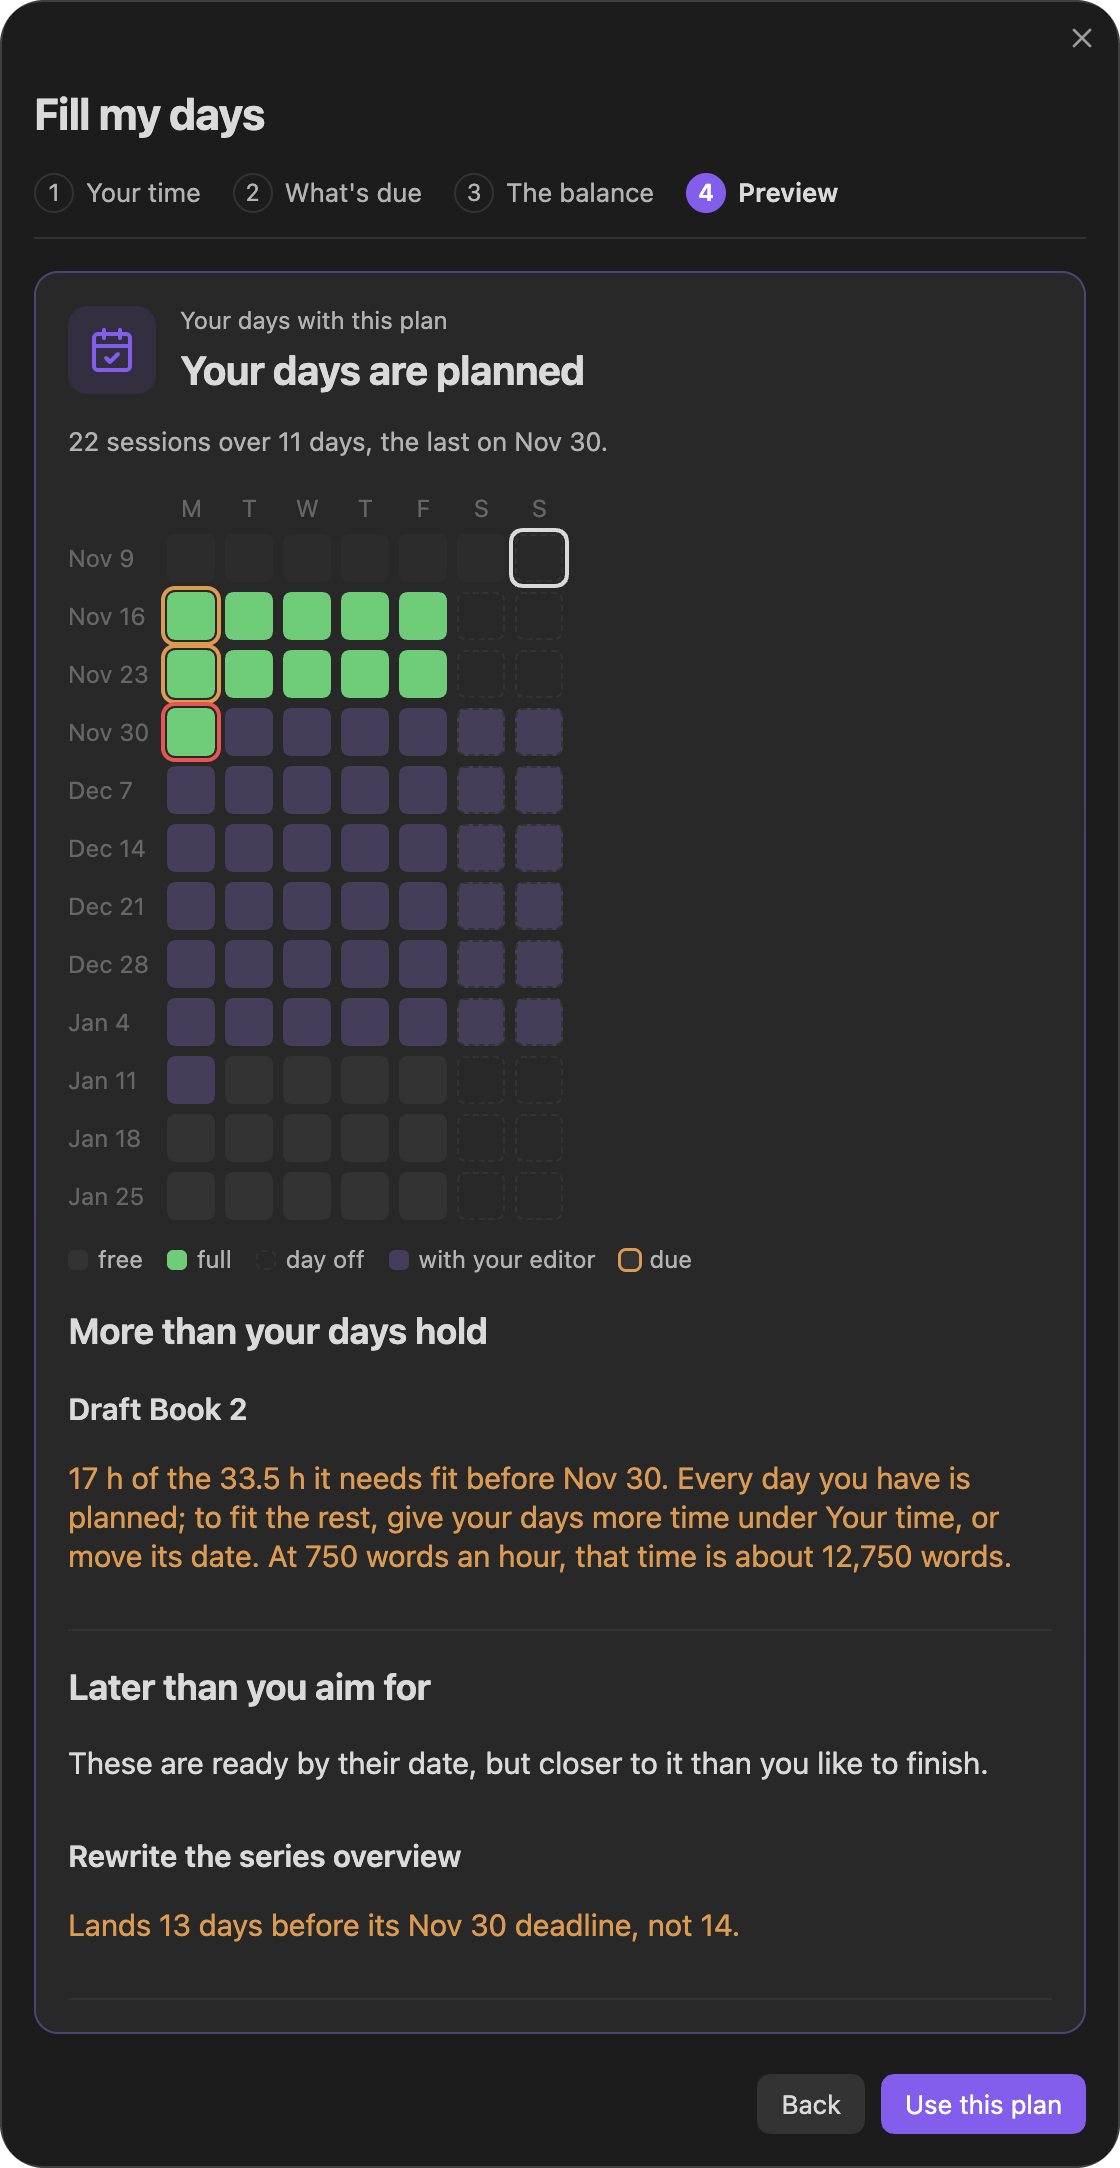
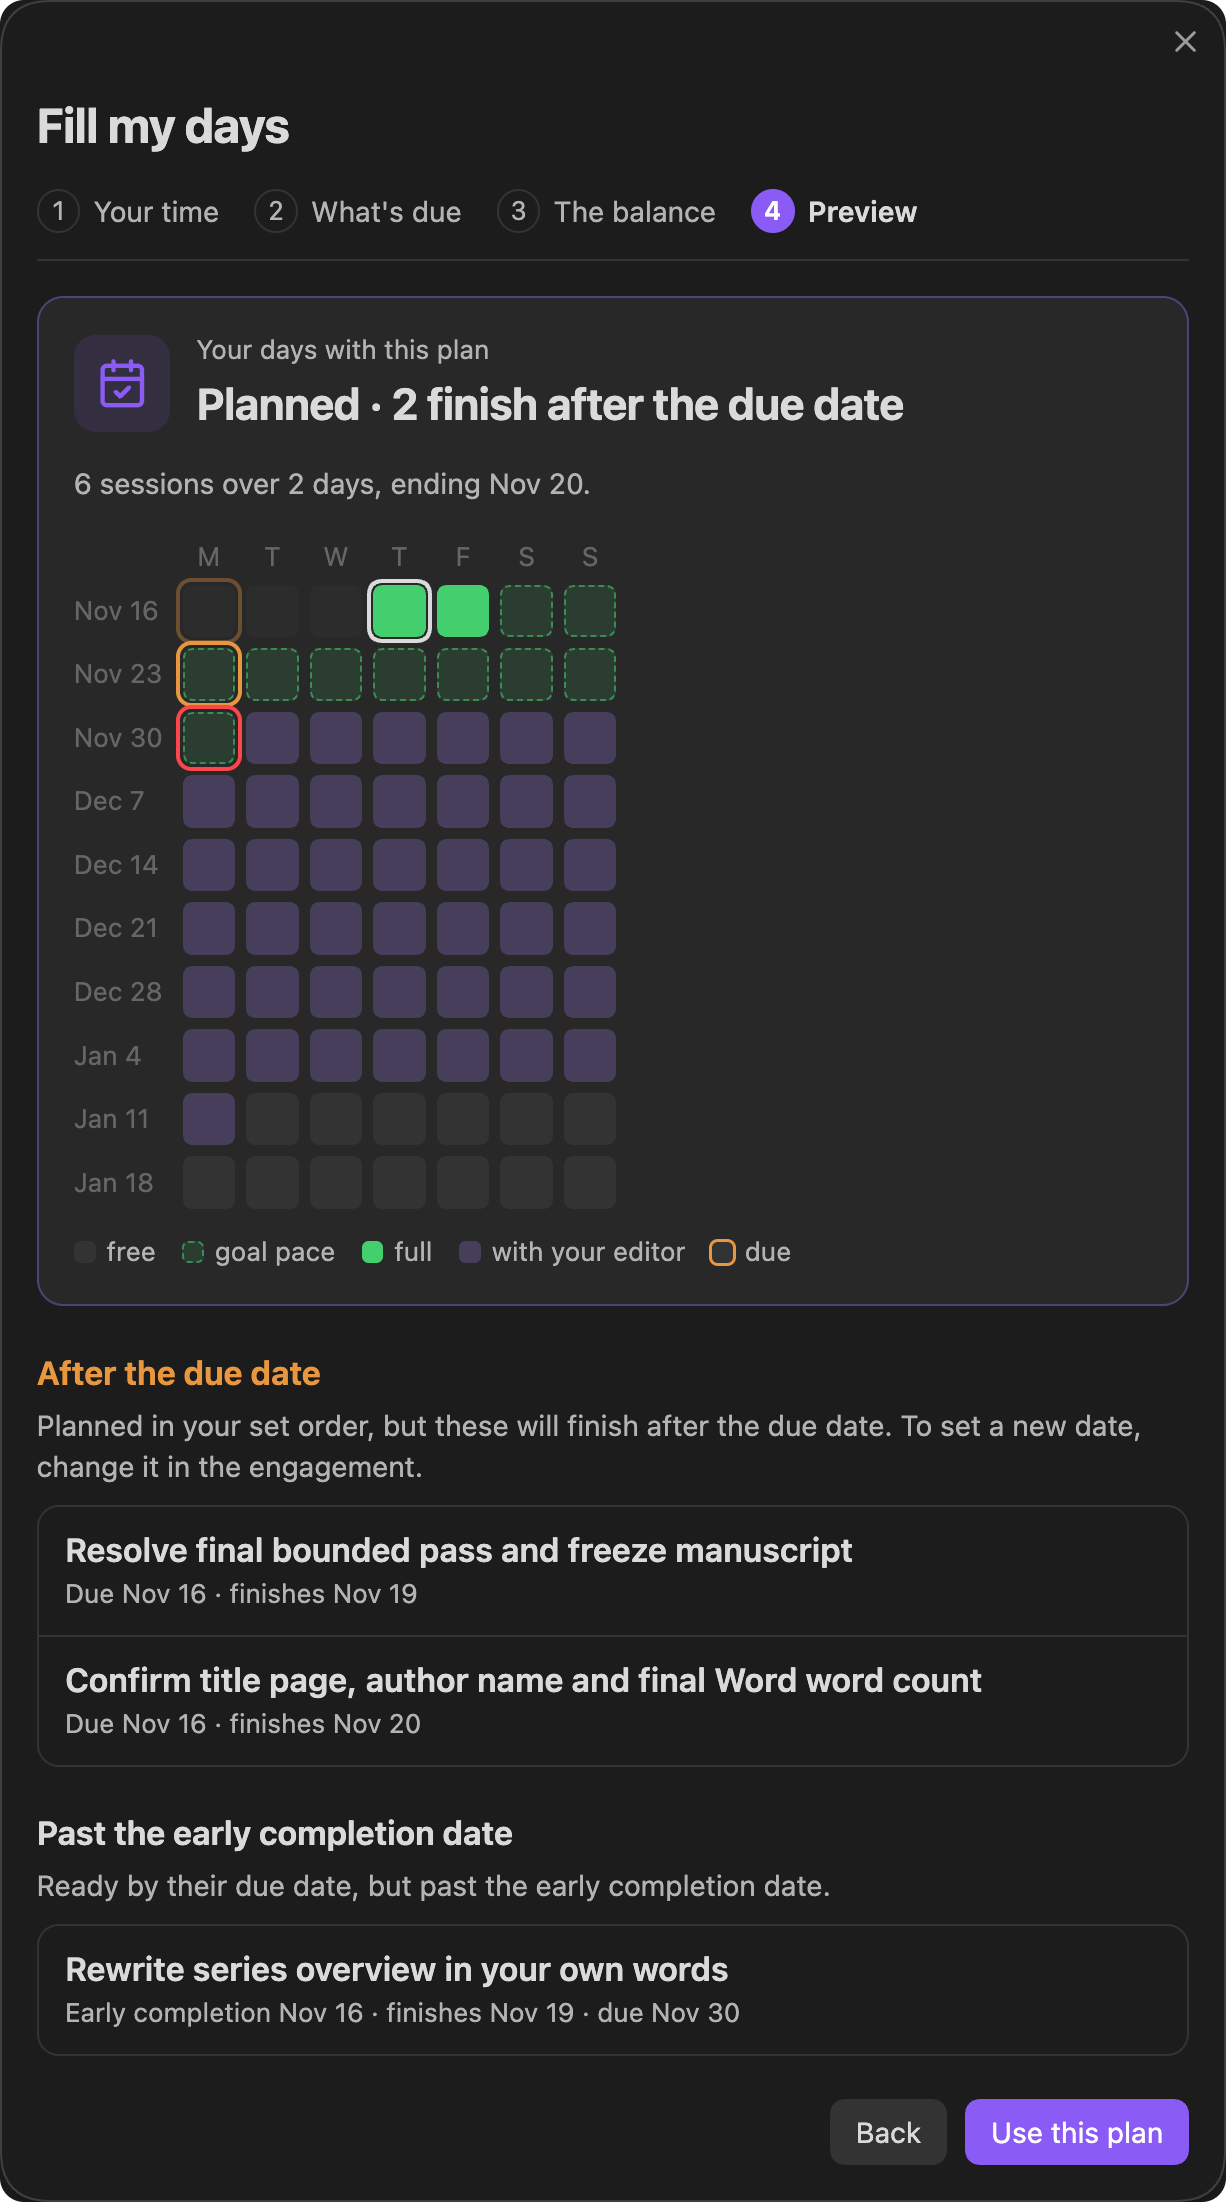
Retake the Fill my days picture with today's preview wording
The wiki's Fill my days image still showed "More than your days hold" and
"Later than you aim for", which today's rewrite replaced with After the
due date and Past the early completion date, alongside planning tasks in
a set order. The page's text was already updated; its picture was not.

It is replaced by the capture made while that wording was written, in a
separate Obsidian on the made-up vault built for today's fixes, rounded
like every wiki image. The alt text says what it now shows, and the
screenshot record notes where it came from. The 3.5.1 release notes use
it.

diff --git a/wiki/Author-Planner.md b/wiki/Author-Planner.md
@@ -48,7 +48,7 @@ The four steps above the plan change an answer in it. Click one to open it; noth
 3. **The balance.** Shown when you have both goals and work due to an editor. What is due to your editor comes first unless you choose your writing goals, or **Some of each, every day**, which keeps a set number of minutes for your goals on each day they need them. Your choice is remembered, and **Ahead of you** lists the work that comes first at the top.
 4. **Preview.** Your days as squares with this plan, with the number of sessions and the last day. Editor work aims to finish by its early completion date, your cushion of days before the due date. Work that finishes later is listed under **Past the early completion date**.
 
-<p align="center"><img src="images/fill-my-days.png" alt="Fill my days showing its plan: Your days are planned, 22 sessions over 11 days, with the days drawn as squares, full on the days now planned. Below, More than your days hold says how much of the goal Draft Book 2 fits before its date, and Later than you aim for names one task. Back and Use this plan are at the bottom" width="520"></p>
+<p align="center"><img src="images/fill-my-days.png" alt="Fill my days on its Preview step: Planned, 2 finish after the due date, with 6 sessions over 2 days drawn as squares. After the due date lists two tasks that were due Nov 16 and finish Nov 19 and Nov 20, and Past the early completion date lists one task ready before its Nov 30 due date. Back and Use this plan are at the bottom" width="520"></p>
 
 Goals are planned to their own dates; the cushion kept before an editor's deadline does not apply to them. A book's feedback work, its review batches, Editorialism directives and pending edits, is planned from that book's own schedule; Fill my days leaves those sessions where they are and plans around them.
 

diff --git a/docs/engineering/WIKI-SCREENSHOTS.md b/docs/engineering/WIKI-SCREENSHOTS.md
@@ -347,3 +347,14 @@ Kept: `delivery-schedule-preview.png` (a delivery's schedule preview, which
 needs imported feedback; its layout is unchanged) and every review, import and
 settings image.
 
+## 3.5.1 Fill my days refresh — November 19, 2026
+
+- `fill-my-days.png` — replaced by the capture made while the preview's
+  wording was rewritten (main at `ad4937b` plus the change that became
+  `1a5e4ba`, taken minutes before it was committed). Separate Obsidian, made-up
+  vault `Demo Vaults/Testing Vaults/2026-11-19 Fill my days fit`: one
+  engagement for Book 1 with five tasks in a set order, two of them due Nov 16,
+  and a 1,000-word goal. It shows the Preview step: "Planned · 2 finish after
+  the due date", After the due date and Past the early completion date.
+  1226 × 2202, 2x, dark, rounded at 24 px; the release notes for 3.5.1 use it.
+
